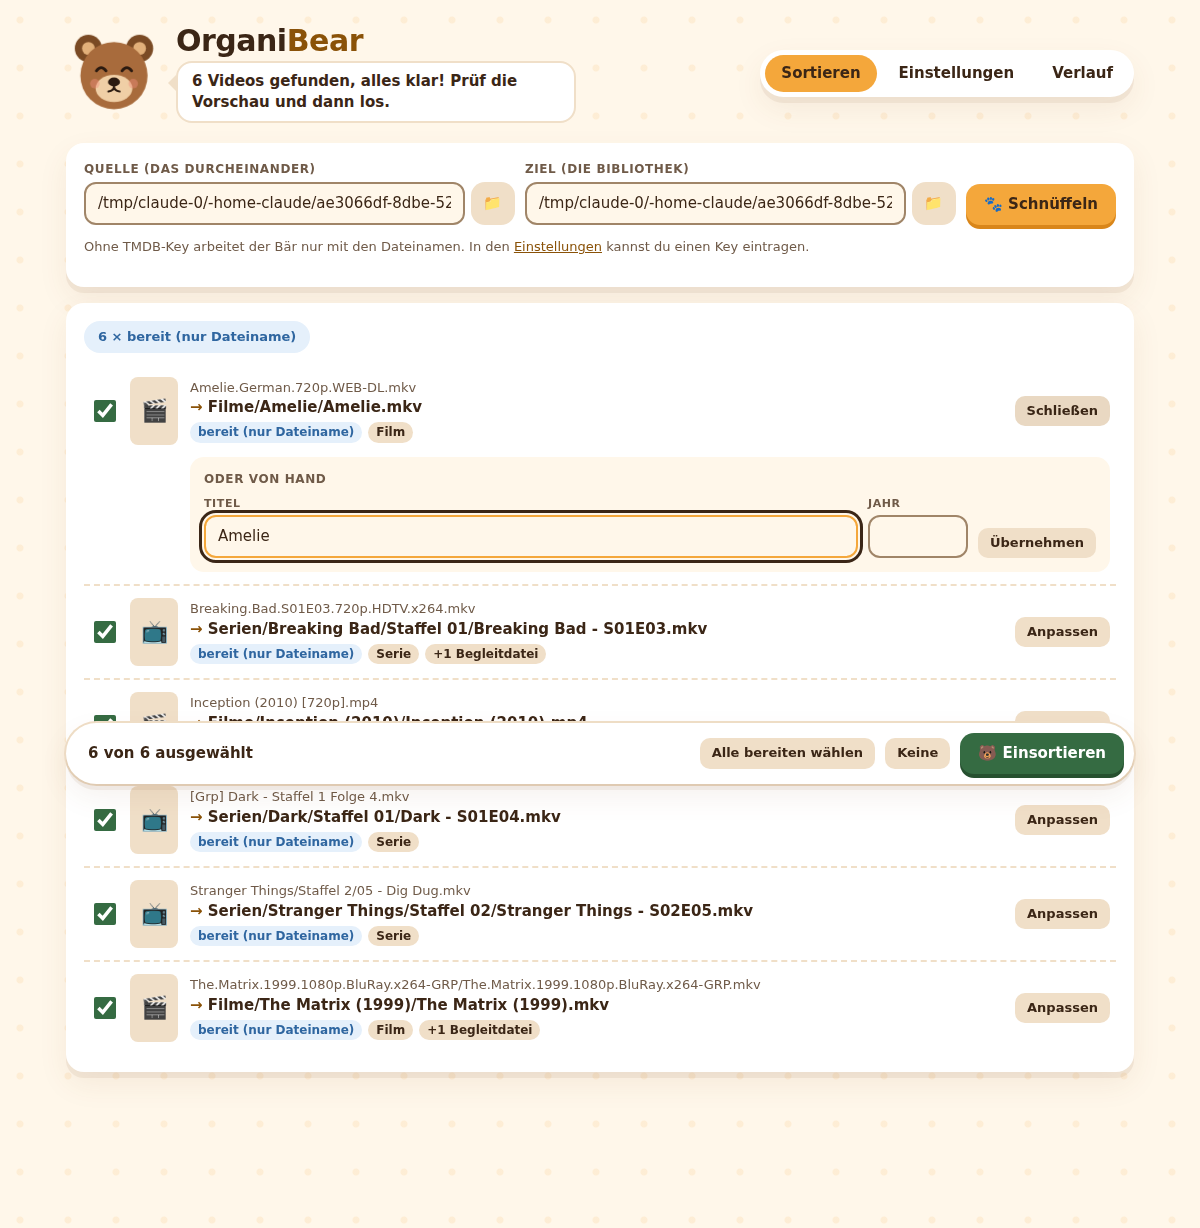
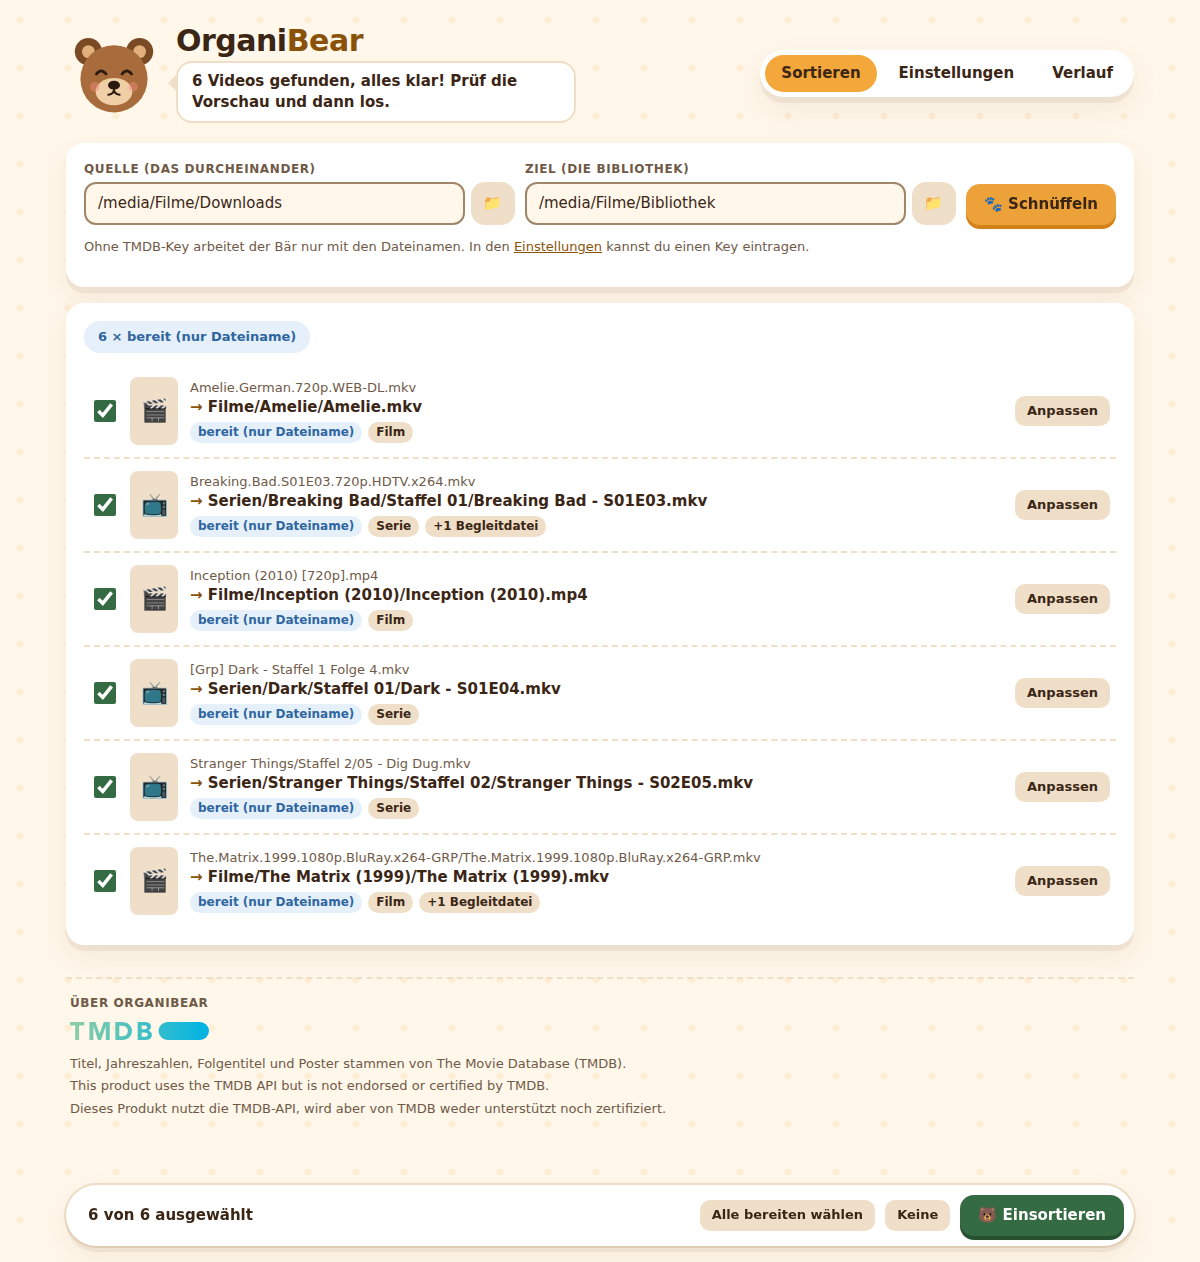
README-Screenshot neu: Auswahlleiste unten, neutrale Pfade, Skript zum Erzeugen
Claude-Session: https://claude.ai/code/session_01821xLD15Pix4i9MNryRkKJ

diff --git a/README.md b/README.md
@@ -91,6 +91,8 @@ CI prüft bei jedem Push und zusätzlich jeden Montag:
 - Barrierefreiheit nach WCAG 2.2 AA mit Playwright und axe, hell und dunkel, inklusive Tastaturbedienung und 320 px Breite:
   `cd e2e && npm ci && npx playwright install chromium && npm test`
 
+Den Screenshot oben erzeugt `cd e2e && npm run screenshot` neu.
+
 ## TMDB
 
 <a href="https://www.themoviedb.org"><img src="web/tmdb.svg" alt="The Movie Database (TMDB)" height="16"></a>
